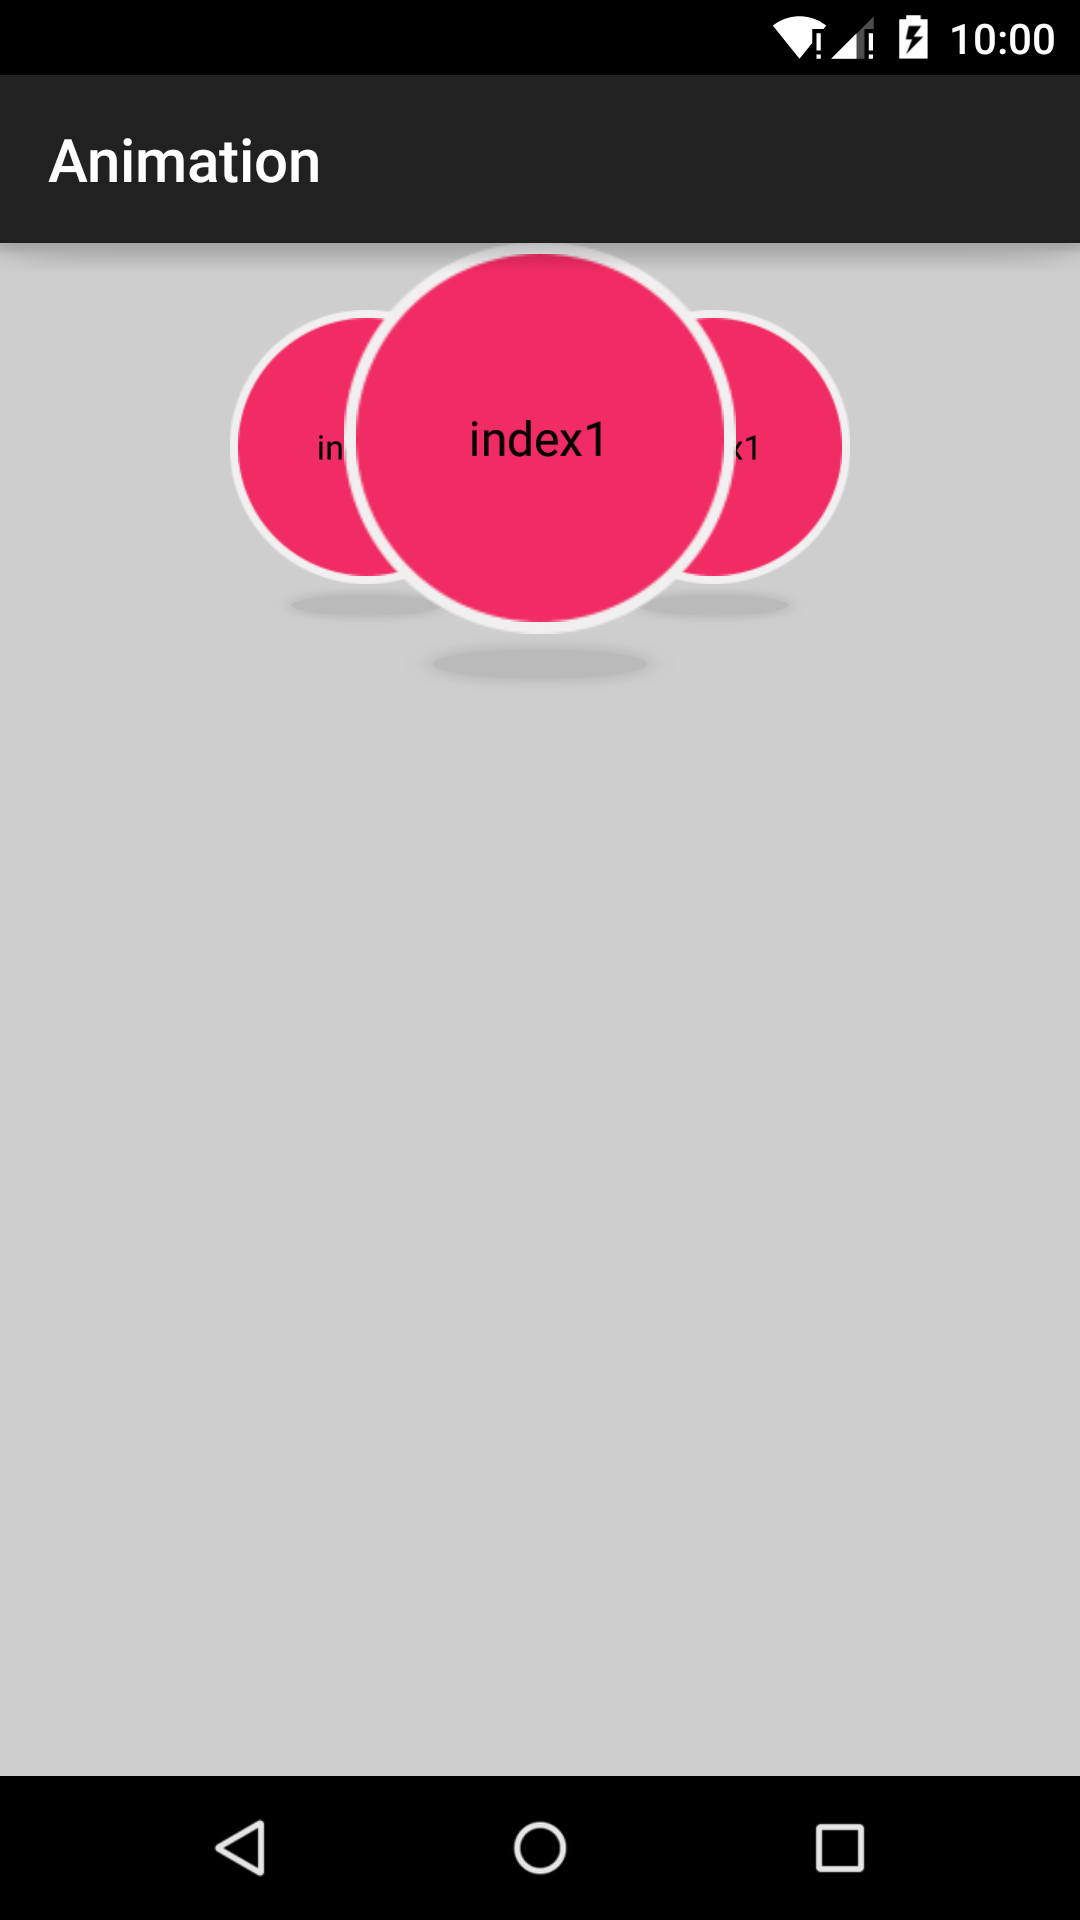
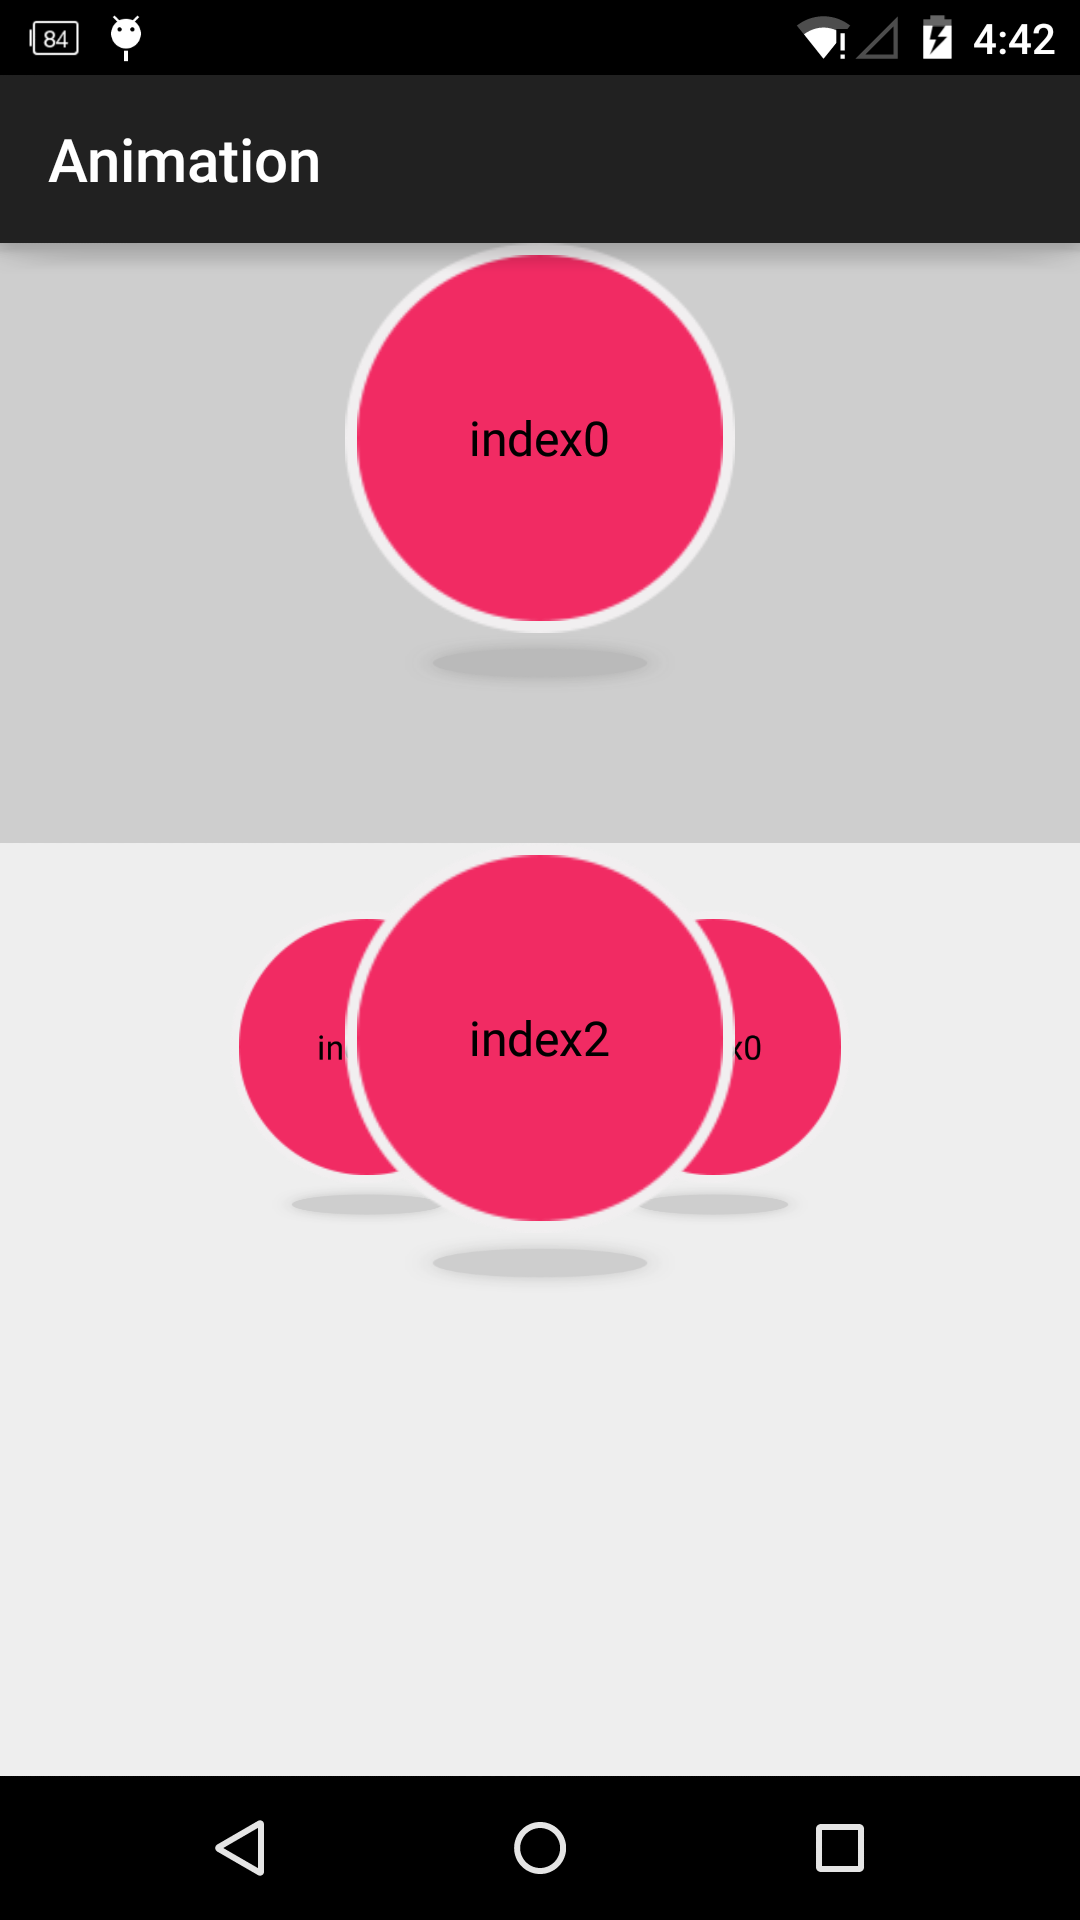
LoopViewPager 新增介绍

diff --git a/app/src/main/java/com/cry/animation/MainActivity.java b/app/src/main/java/com/cry/animation/MainActivity.java
@@ -2,6 +2,7 @@ package com.cry.animation;
 
 import android.os.Bundle;
 import android.support.v7.app.ActionBarActivity;
+import android.view.LayoutInflater;
 import android.view.View;
 import android.widget.TextView;
 import android.widget.Toast;
@@ -18,31 +19,30 @@ public class MainActivity extends ActionBarActivity {
         super.onCreate(savedInstanceState);
         setContentView(R.layout.activity_main);
 
+
+
+        //LoopViewPager 使用方法---------------------------------------------
         pager=(LoopViewPager)findViewById(R.id.loopViewPager);
         List<View> arr=new ArrayList<View>();
-
-        for (int i=0;i<1;i++){
-            TextView textView=new TextView(this);
-            textView.setText("第" + i + "个");
-            textView.setBackgroundResource(R.drawable.image_red);
-            //textView.setLayoutParams(new ViewGroup.LayoutParams(ViewGroup.LayoutParams.FILL_PARENT, ViewGroup.LayoutParams.FILL_PARENT));
-            textView.setGravity(TextView.TEXT_ALIGNMENT_CENTER);
-            arr.add(textView);
+        for (int i=0;i<3;i++){
+            View v= LayoutInflater.from(this).inflate(R.layout.item_pager,null);
+            TextView textView=(TextView)v.findViewById(R.id.textView);
+            textView.setText("index"+i);
+            arr.add(v);
         }
         pager.setList(arr);
         try {
             pager.setAutoChange(true);
         } catch (Exception e) {
-            Toast.makeText(this,""+e.toString(),1000).show();
-            e.printStackTrace();
+            Toast.makeText(this,""+e.toString(),Toast.LENGTH_LONG).show();
         }
 
+
+
+        //LoopView 使用方法---------------------------------------------
         loopView=(LoopView)findViewById(R.id.loopView);
         loopView.setAutoRotationTime(3*1000);
         loopView.setAutoRotation(true);
         loopView.setR(200);
-
-
-
     }
 }

diff --git a/README.md b/README.md
@@ -1,4 +1,6 @@
 #介绍
+1: LoopView<br />
+2: LoopViewPager（新增）<br />
 可以无限循环，自动旋转，停靠的3D旋转布局控件,无需编写代码，直接在布局中加入自己的布局即可。<br />
 仅使用三角函数,使用ValueAnimation,继承FrameLayout.兼容所有滑动组件
 ##优势
@@ -7,7 +9,6 @@
 *可直接在xml添加元素即可添加列数据。无需编写代码添加<br />
 *优良的兼容性，和尺寸控制<br />
 ##如何使用？
-
 `<com.cry.animation.LoopView`<br />
         `android:layout_width="fill_parent"`<br />
         `android:layout_height="fill_parent"`<br />
